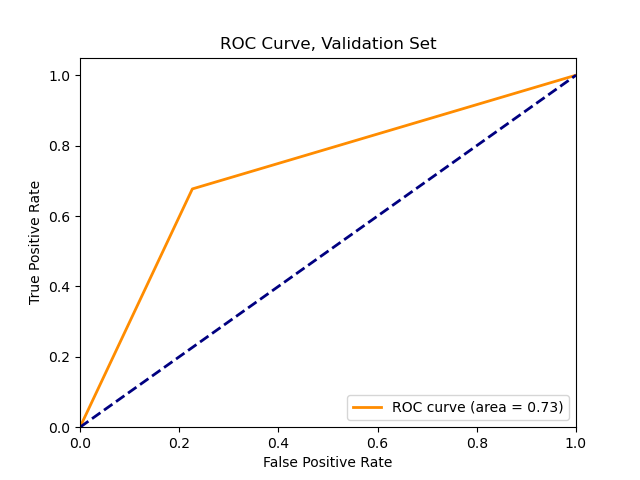
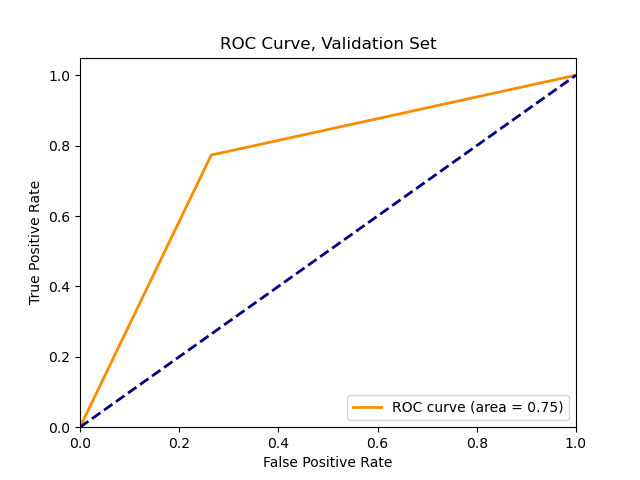
added GAT

diff --git a/src/graph_neural_nets.py b/src/graph_neural_nets.py
@@ -1,7 +1,7 @@
 import torch
 import torch.nn.functional as F
 from torch.nn import Sequential, Linear, BatchNorm1d, Dropout,LeakyReLU
-from torch_geometric.nn import GINEConv
+from torch_geometric.nn import GINEConv, GATConv
 
 def train(model, loader, class_weights, lr, weight_decay, device):
         model.train()
@@ -41,27 +41,77 @@ class GIN(torch.nn.Module):
         self.conv1 = GINEConv(Sequential(Linear(in_dim, h_dim),
                                         BatchNorm1d(h_dim, h_dim),
                                         LeakyReLU(),
-                                        Dropout(p=0.3)
+                                        Dropout(p=0.5)
                                         ), edge_dim=4)
         self.conv2 = GINEConv(Sequential(Linear(h_dim, h_dim),
                                         BatchNorm1d(h_dim, h_dim),
                                         LeakyReLU(),
-                                        Dropout(p=0.3)
+                                        Dropout(p=0.5)
                                         ), edge_dim=4)
         self.conv3 = GINEConv(Sequential(Linear(h_dim, h_dim),
                                         BatchNorm1d(h_dim, h_dim),
                                         LeakyReLU(),
-                                        Dropout(p=0.3)
+                                        Dropout(p=0.5)
                                         ), edge_dim=4)
         self.lin1 = Linear(h_dim*3, h_dim*3)
         self.lin2 = Linear(h_dim*3, out_dim)
 
-    def forward(self, x, edge_index, edge_attr):
+    def forward(self, x, edge_index, edge_features):
 
         # Node embeddings
-        h1 = self.conv1(x, edge_index, edge_attr)
-        h2 = self.conv2(h1, edge_index, edge_attr)
-        h3 = self.conv3(h2, edge_index, edge_attr)
+        h1 = self.conv1(x, edge_index, edge_features)
+        h2 = self.conv2(h1, edge_index, edge_features)
+        h3 = self.conv3(h2, edge_index, edge_features)
+
+        # Concatenate embeddings
+        h = torch.cat((h1, h2, h3), dim=1)
+
+        # h_g=torch.nn.global_pooling(h[0:45])
+
+        # Classify
+        h = self.lin1(h)
+        h = h.relu()
+        h = self.lin2(h)
+
+        return h, F.softmax(h, dim=1)
+
+
+class GAT(torch.nn.Module):
+    def __init__(self, in_dim, h_dim, out_dim, num_heads):
+        super().__init__()
+        self.conv1 = GATConv(in_channels=in_dim, 
+                            out_channels=h_dim, 
+                            heads=num_heads, 
+                            concat=True, 
+                            negative_slope=0.2, 
+                            dropout=0.3, 
+                            add_self_loops=False, 
+                            edge_dim=4, bias=True)
+        self.conv2 = GATConv(in_channels=h_dim * num_heads, 
+                            out_channels=h_dim, 
+                            heads=num_heads, 
+                            concat=True, 
+                            negative_slope=0.2, 
+                            dropout=0.3, 
+                            add_self_loops=False, 
+                            edge_dim=4, bias=True)
+        self.conv3 = GATConv(in_channels=h_dim * num_heads, 
+                            out_channels=h_dim, 
+                            heads=num_heads, 
+                            concat=True, 
+                            negative_slope=0.2, 
+                            dropout=0.3, 
+                            add_self_loops=False, 
+                            edge_dim=4, bias=True)
+        self.lin1 = Linear(h_dim*num_heads*3, h_dim*num_heads*3)
+        self.lin2 = Linear(h_dim*num_heads*3, out_dim)
+
+    def forward(self, x, edge_index, edge_features):
+
+        # Node embeddings
+        h1 = self.conv1(x, edge_index, edge_features)
+        h2 = self.conv2(h1, edge_index, edge_features)
+        h3 = self.conv3(h2, edge_index, edge_features)
 
         # Concatenate embeddings
         h = torch.cat((h1, h2, h3), dim=1)

diff --git a/som_gnn.py b/som_gnn.py
@@ -1,9 +1,6 @@
 import matplotlib.pyplot as plt
 import numpy as np
 import random
-from ray import tune
-from ray.tune import CLIReporter
-from ray.tune.schedulers import ASHAScheduler
 from sklearn.model_selection import train_test_split
 from sklearn.metrics import matthews_corrcoef, accuracy_score, \
     jaccard_score, precision_score, recall_score, auc, \
@@ -14,7 +11,7 @@ from torch_geometric.loader import DataLoader
 
 from src.process_input_data import process_data
 from src.pyg_dataset_creator import SOM
-from src.graph_neural_nets import GIN, train, test
+from src.graph_neural_nets import GIN, GAT, train, test
 
 
 
@@ -71,12 +68,13 @@ def main():
     --------------------------------------
     """
 
-    gin_model = GIN(in_dim=dataset.num_features, h_dim=128, out_dim=dataset.num_classes).to(device)
-    print(gin_model)
+    #model = GIN(in_dim=dataset.num_features, h_dim=128, out_dim=dataset.num_classes).to(device)
+    model = GAT(in_dim=dataset.num_features, h_dim=128, out_dim=dataset.num_classes, num_heads=8).to(device)
+    print(model)
 
-    for epoch in range(40):
-        training_loss = train(gin_model, train_loader, class_weights, lr=1e-3, weight_decay=1e-4, device=device)
-        val_pred, val_true = test(gin_model, val_loader, device=device)
+    for epoch in range(80):
+        training_loss = train(model, train_loader, class_weights, lr=1e-4, weight_decay=1e-4, device=device)
+        val_pred, val_true = test(model, val_loader, device=device)
         val_mcc = matthews_corrcoef(val_true, val_pred)
         val_acc = accuracy_score(val_true, val_pred)
         val_jacc = jaccard_score(val_true, val_pred)
